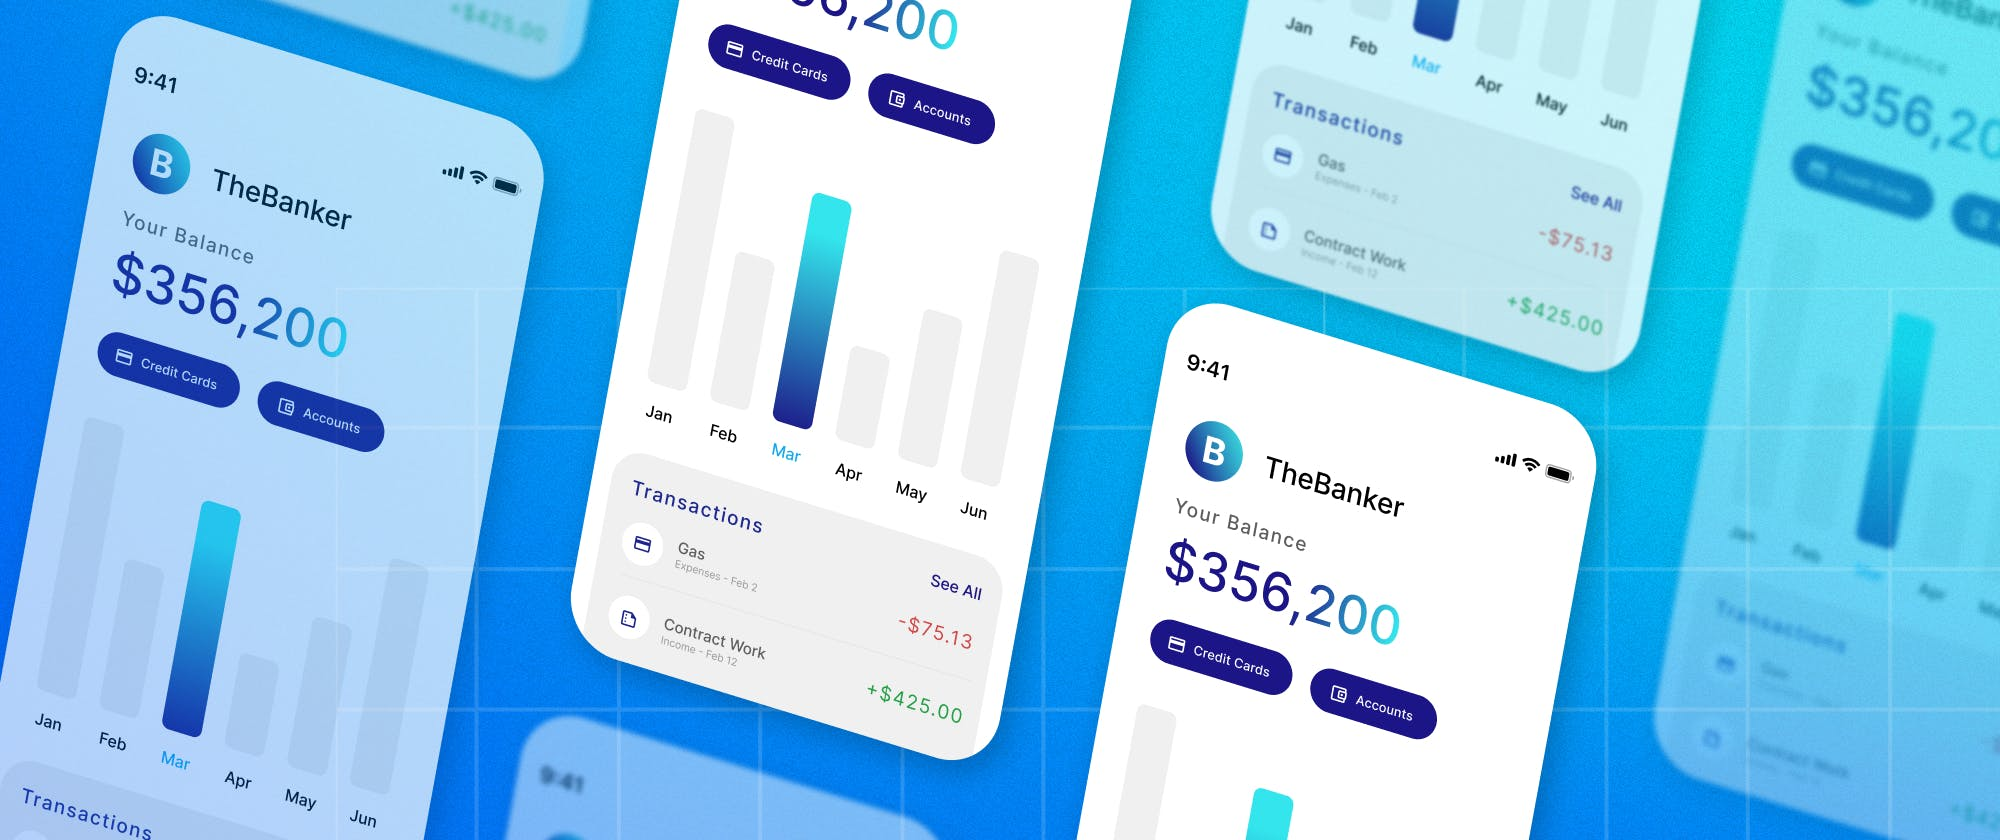
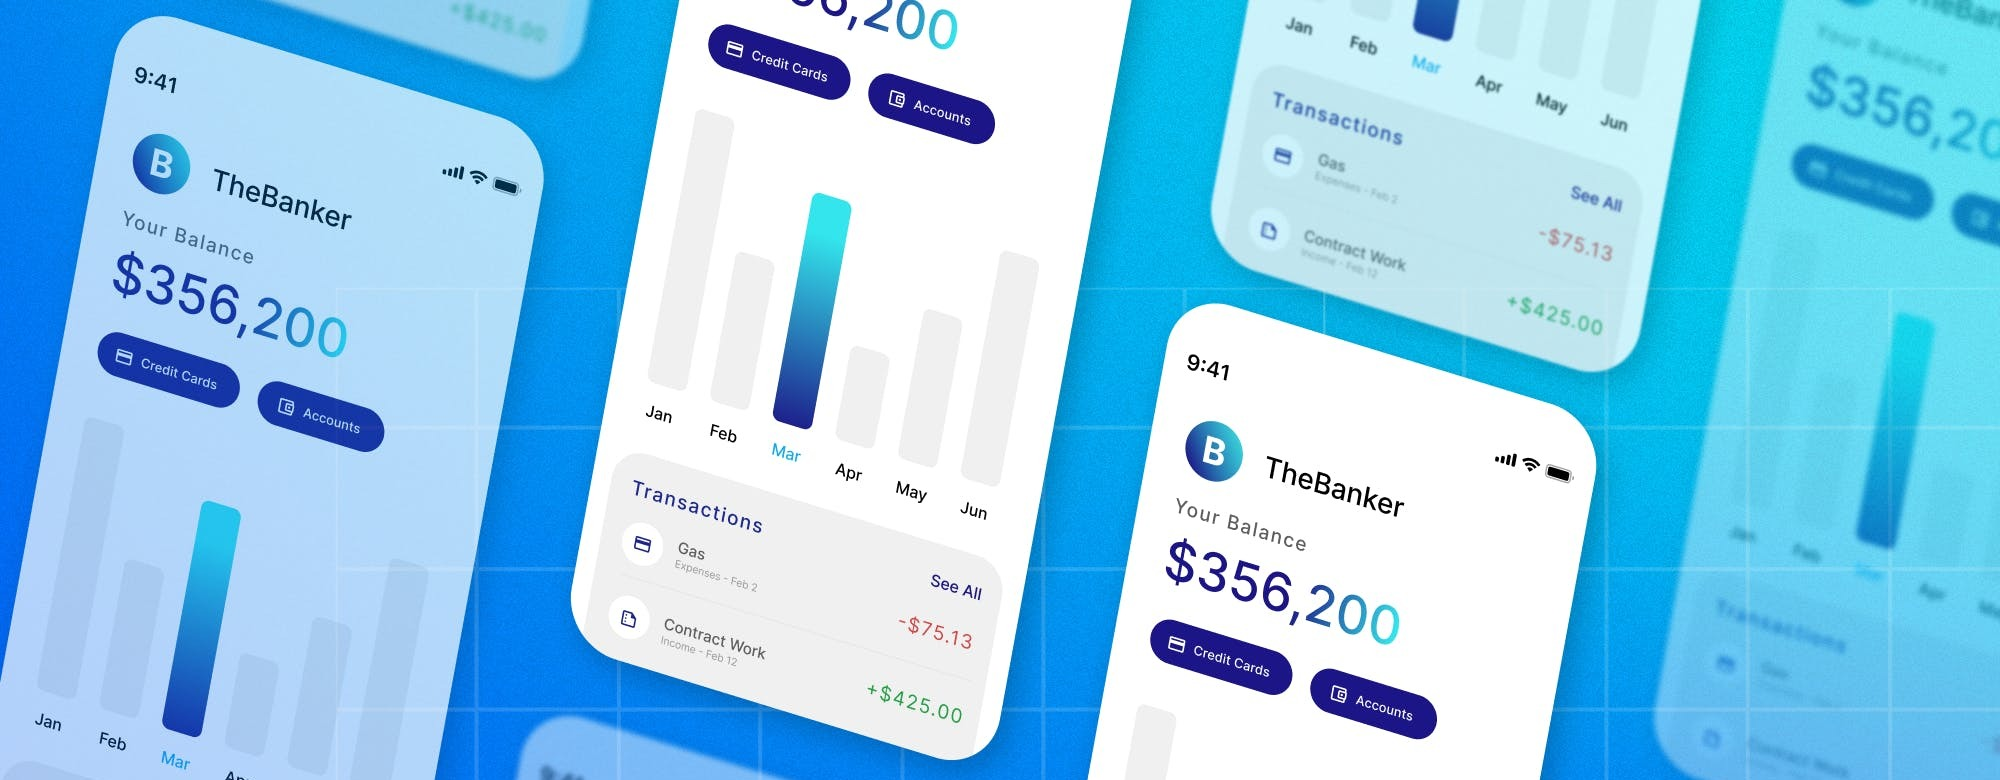
Remove Shutterstock watermarks from images and verify navigation
- Cropped watermarks from hero-banking.jpg, fintech-app.jpg, and modern-bank.jpg
- Tested all navigation links (About, FAQ, Contact) - working correctly
- Tested Back buttons on all pages - working correctly
- All images now clean and professional without watermarks
- Updated todo.md to track completed QA tasks

diff --git a/todo.md b/todo.md
@@ -112,3 +112,8 @@
 
 ## Bug Fixes
 - [x] Fix nested anchor tag error on About page
+
+## Quality Assurance
+- [x] Test all navigation links and buttons
+- [x] Crop Shutterstock watermarks from images
+- [ ] Push cleaned images to GitHub
